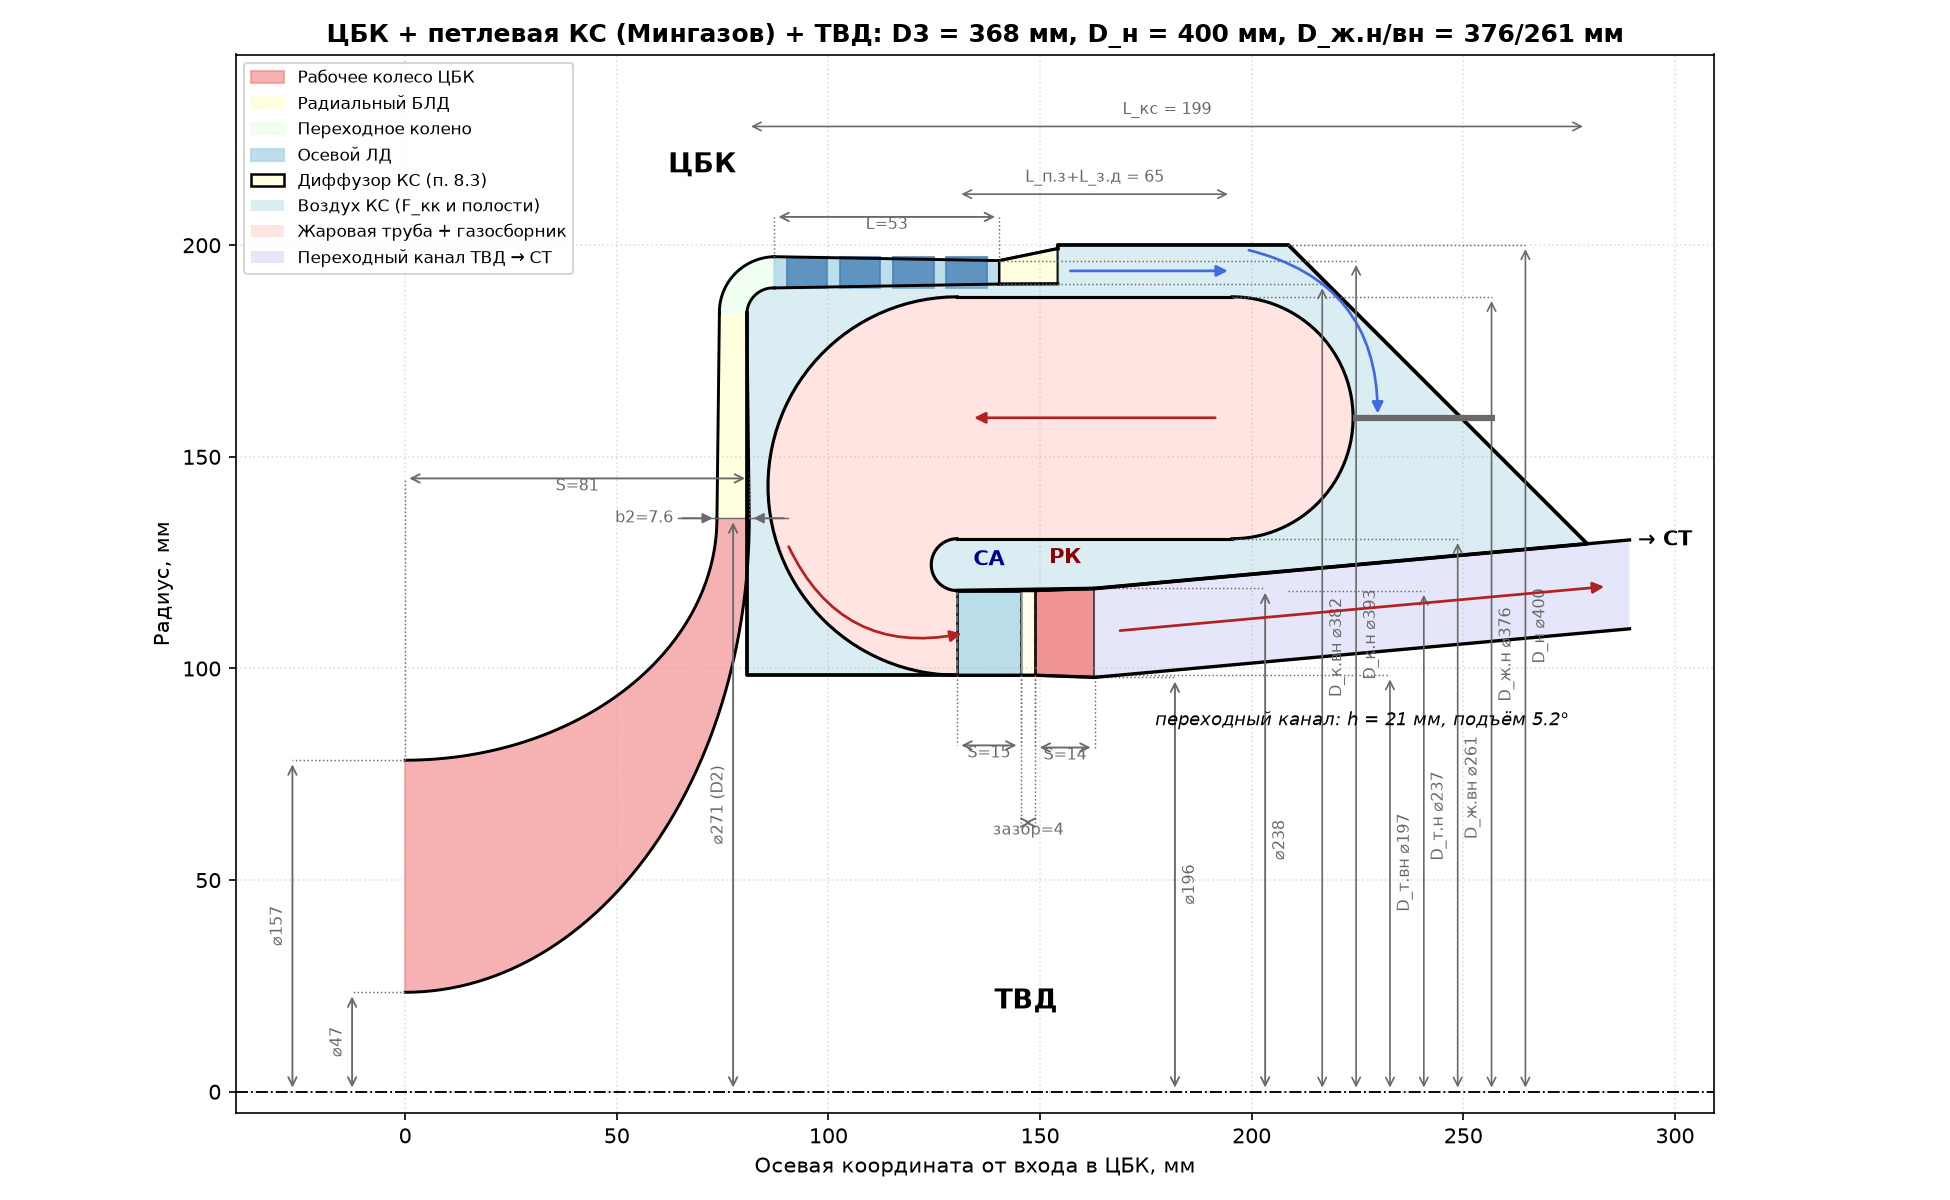
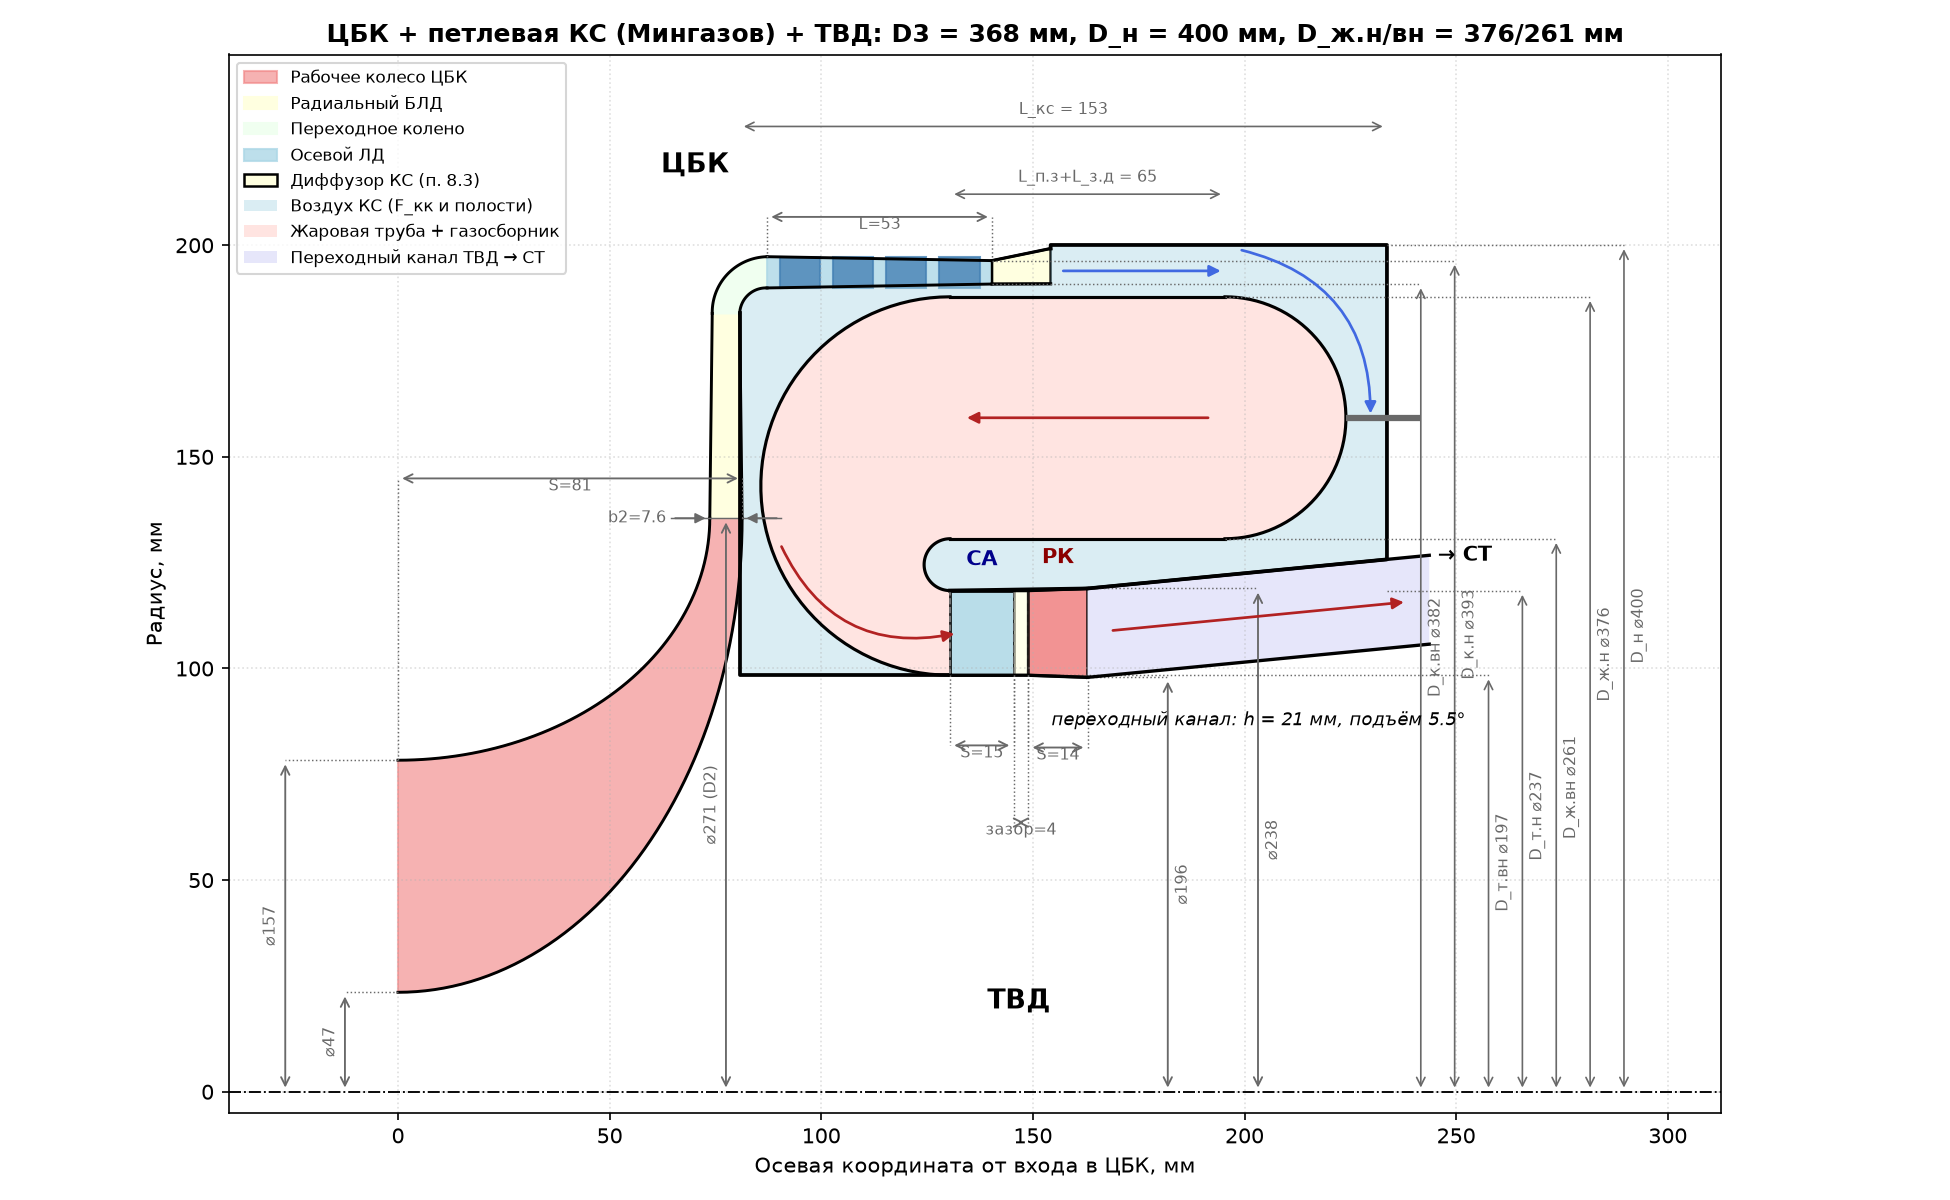
КС: плоская задняя стенка (90°), высота ЖТ из площади; СТ D_ср = 238 мм
Задняя стенка корпуса КС — параметр wall_angle (принято 90°, плоский торец):
переходный канал ТВД → СТ укоротился до 81 мм. Чтобы подъём канала остался
≈ 5,5° (как на чертеже), D_ср СТ 245 → 238 мм, n 29700 → 30600 об/мин
(u_ср = 381 м/с, λ_c1 = 0,878; раскрытие СА СТ 19,7°/11,8°).
Высота ЖТ — по п. 8.4.6 из площади (H_ж = k_опт·H_к); k_опт оставлено 0,7:
при 0,8 КС и ЦБК только увеличиваются (D_н 400 → 478 мм, η_к 0,831 → 0,813).

diff --git a/kamera_sgoraniya/mingazov.py b/kamera_sgoraniya/mingazov.py
@@ -41,8 +41,12 @@ DEFAULTS = dict(
     # Проточная часть петлевой КС (п. 8.10)
     dp_q_ks=30.0,  # ΔP_к/q_к для петлевой КС («необходимо увеличить до 30»)
     dp_q_d=10.0,  # ΔP_д/q_к для петлевой КС
-    k_opt=0.7,  # F_ж.т/F_m = 0,7…0,8
-    H_zh_rel=0.7,  # H_ж/H_к для петлевой КС
+    # F_ж.т/F_m = 0,7…0,8 (п. 8.4.5, 8.10). Высота ЖТ — из площади (п. 8.4.6): H_ж = F_ж.т/(π·D_ср) = k_опт·H_к
+    # (при 0,7 совпадает с H_ж = 0,7·H_к п. 8.10). Принята нижняя граница: радиальные зазоры над и под ЖТ
+    # (≈ 12 мм) задаются выходом ЛД ЦБК и диффузором КС, а не k_опт, поэтому k_опт = 0,8 не утончает воздушные
+    # каналы, а увеличивает ЖТ и всю КС: D_н 400 → 478 мм, D3/D2 1,36 → 1,63, η_к 0,831 → 0,813, c_к 111 → 94 м/с
+    k_opt=0.7,
+    wall_angle=90.0,  # угол задней стенки корпуса к оси, град: 90° — плоский торец (самый короткий канал к СТ; на чертеже books/гг.png стенка скошена)
     A=0.06, theta=0.3,  # п. 8.4.8: коэффициент для кольцевых КС, неравномерность θ = 0,2…0,4
     # Распределение воздуха (п. 8.5.1, для петлевой КС — п. 8.10). Сумма должна быть 1; при рекомендуемых
     # F̄фр = 0,1…0,2, F̄озг = 0,2…0,3, F̄озс = 0,1…0,2, F̄охл = 0,1…0,2 максимум суммы 0,9, поэтому одна доля
@@ -168,7 +172,7 @@ def combustor(G_k, P_k, T_k, T_g, alpha, L_o, sigma_ks, D_k_vn, D_k_n, D_t_vn, D
     D_sr = (D_n + D_t_n) / 2
     F_m = math.pi * D_sr * H_k
     F_zht = p["k_opt"] * F_m  # 8.4.5
-    H_zh = p["H_zh_rel"] * H_k  # для петлевой КС
+    H_zh = F_zht / (math.pi * D_sr)  # 8.4.6 (= k_опт·H_к)
     D_zh_n, D_zh_vn = D_sr + H_zh, D_sr - H_zh  # 8.4.7
     dp_q_zht = p["dp_q_ks"] - p["dp_q_d"]  # 8.4.8
     L_zht = H_zh / (p["A"] * dp_q_zht * math.log(1 / (1 - p["theta"])))  # 8.4.8
@@ -286,10 +290,14 @@ def layout(r, diff):
     x_c = x_nose + Ro
     L_straight = r["L_pz"] + max(r["L_zd"], 0.0)
     x_dome = x_c + L_straight
-    # Задняя стенка корпуса скошена под 45° (как на чертеже books/гг.png) и опирается на наружную стенку
-    # переходного канала ТВД → СТ: линия x + r = C_wall, отстоящая от купола на Δl (п. 8.3.9)
-    x_end = x_dome + (r["H_zh"] / 2 + r["dl"]) * math.sqrt(2)  # стенка на среднем радиусе ЖТ
-    C_wall = x_end + r["D_sr"] / 2
+    # Задняя стенка корпуса стоит под углом wall_angle к оси (на чертеже books/гг.png — скошена) и опирается на
+    # наружную стенку переходного канала ТВД → СТ: линия sinβ·x + cosβ·r = C_wall, касательная к куполу с
+    # зазором Δl (п. 8.3.9), т.е. отстоящая от центра купола на H_ж/2 + Δl
+    beta = math.radians(r["params"]["wall_angle"])
+    wall_s, wall_c = math.sin(beta), math.cos(beta)
+    C_wall = wall_s * x_dome + wall_c * r["D_sr"] / 2 + r["H_zh"] / 2 + r["dl"]
+    x_at = lambda rr: (C_wall - wall_c * rr) / wall_s
+    x_end = x_at(r["D_sr"] / 2)  # стенка на среднем радиусе ЖТ
 
     # Наименьший радиальный зазор между стенкой диффузора ЦБК (колено, ЛД, диффузор КС) и наружной стенкой
     # газосборника / ЖТ
@@ -308,8 +316,8 @@ def layout(r, diff):
 
     return dict(r_k_vn=R(r["D_k_vn"]), r_k_n=R(r["D_k_n"]), r_d1_vn=R(r["D1_vn"]), r_d1_n=R(r["D1_n"]),
                 r_2vn=R(r["D2_vn"]), x_d1=r["L_d"], x_back=x_back, hub=hub, r3=diff["r3"], x_nose=x_nose,
-                rc_o=rc_o, Ro=Ro, rc_i=rc_i, Ri=Ri, x_c=x_c, x_dome=x_dome, x_end=x_end, C_wall=C_wall, x_top=C_wall - R(r["D_n"]),
-                L_under=C_wall - r_t_n - x_c,
+                rc_o=rc_o, Ro=Ro, rc_i=rc_i, Ri=Ri, x_c=x_c, x_dome=x_dome, x_end=x_end, C_wall=C_wall, wall_s=wall_s, wall_c=wall_c,
+                x_top=x_at(R(r["D_n"])), x_wall_t=x_at(r_t_n), L_under=x_at(r_t_n) - x_c,
                 L_turn=math.pi * ((r["D_sr"] - r["D_t_sr"]) / 4), clear=clear,
                 r_vyh_vn=r_t_vn, r_vyh_n=r_t_n, r_zh_vn=r_zh_vn, r_zh_n=r_zh_n, r_ksn=R(r["D_n"]))
 
@@ -395,7 +403,7 @@ def print_report(r):
           f"H_к = (D_н − D_т)/2 = {mm(r['H_k']):.1f} мм, D_ср = {mm(r['D_sr']):.1f} мм")
     print(f"  F_m = π·D_ср·H_к = {cm2(r['F_m']):.0f} см² (по потерям, п. 8.4.1 при ΔP_к/q̄_к = {p['dp_q_ks']} и "
           f"ΔP_к/P_к = {r['dp_P']:.2f}: {cm2(r['F_m_loss']):.0f} см²)")
-    print(f"  F_ж.т = k_опт·F_m = {cm2(r['F_zht']):.0f} см² (k_опт = {p['k_opt']}), H_ж = {p['H_zh_rel']}·H_к = "
+    print(f"  F_ж.т = k_опт·F_m = {cm2(r['F_zht']):.0f} см² (k_опт = {p['k_opt']}), H_ж = F_ж.т/(π·D_ср) = "
           f"{mm(r['H_zh']):.1f} мм, D_ж.н/D_ж.вн = {mm(r['D_zh_n']):.1f}/{mm(r['D_zh_vn']):.1f} мм")
     print(f"  Наружный канал над ЖТ {cm2(r['F_kk']):.0f} см² (F2 = {cm2(r['F2']):.0f} см²), "
           f"внутренняя полость над СА {cm2(r['F_vk']):.0f} см²")
@@ -437,7 +445,7 @@ def print_report(r):
 
     print("\n─── Компоновка (x = 0 — выход ЛД ЦБК) ───")
     print(f"  Задняя стенка радиального диффузора ЦБК x = {mm(g['x_back']):.1f} мм, вход в СА ТВД x = "
-          f"{mm(g['x_c']):.1f} мм, купол x = {mm(g['x_dome']):.1f} мм, скошенная (45°) задняя стенка корпуса: "
+          f"{mm(g['x_c']):.1f} мм, купол x = {mm(g['x_dome']):.1f} мм, задняя стенка корпуса ({p['wall_angle']:.0f}° к оси): "
           f"x = {mm(g['x_top']):.1f} мм у D_н, x = {mm(g['x_end']):.1f} мм на среднем радиусе ЖТ")
     print(f"  Радиусы газосборника: наружный {mm(g['Ro']):.1f} мм (D_ж.н → втулка СА), внутренний {mm(g['Ri']):.1f} мм "
           f"(D_ж.вн → корпус СА); зазор до стенки диффузора ЦБК {mm(g['clear']):.1f} мм")

diff --git a/kamera_sgoraniya/plot.py b/kamera_sgoraniya/plot.py
@@ -21,7 +21,7 @@ def _arc(xc, rc, R, phi0, phi1, n=60):
 
 def draw_combustor(ax, r, x0=0.0, dims=True, duct=None):
     """Меридиональное сечение петлевой (противоточной) КС на оси ax, x0 — выход осевого ЛД ЦБК, мм.
-    duct — переходный канал ТВД → СТ (free_turbine/perehod.py, м, координаты КС): скошенная задняя стенка
+    duct — переходный канал ТВД → СТ (free_turbine/perehod.py, м, координаты КС): задняя стенка
     КС садится на его наружную стенку; без него — на корпус СА ТВД. Возвращает координаты (мм)."""
     g = {k: v * MM for k, v in r["geo"].items() if isinstance(v, float)}
     X = lambda v: x0 + v
@@ -29,13 +29,13 @@ def draw_combustor(ax, r, x0=0.0, dims=True, duct=None):
     hub_x = np.array([X(p[0] * MM) for p in r["geo"]["hub"]])
     hub_r = np.array([p[1] * MM for p in r["geo"]["hub"]])
     h_zh, r_zh_sr = r["H_zh"] * MM, r["D_sr"] / 2 * MM
-    # Скошенная (45°) задняя стенка корпуса x + r = C и «пол» КС: корпус СА/РК ТВД и наружная стенка канала к СТ
+    # Скошенная задняя стенка корпуса и «пол» КС: корпус СА/РК ТВД и наружная стенка канала к СТ
     x_top = X(g["x_top"])
     if duct is not None:
         floor_x = [X(duct["x_b"] * MM), X(duct["x_rk"] * MM), xc]
         floor_r = [duct["r_b"] * MM, duct["r_rk_tip"] * MM, g["r_vyh_n"]]
     else:
-        floor_x = [X(g["C_wall"] - g["r_vyh_n"]), xc]
+        floor_x = [X(g["x_wall_t"]), xc]
         floor_r = [g["r_vyh_n"], g["r_vyh_n"]]
 
     out_x, out_r = _arc(xc, g["rc_o"], g["Ro"], 90, 270)  # наружная стенка газосборника: Джтрн → втулка СА
@@ -66,7 +66,7 @@ def draw_combustor(ax, r, x0=0.0, dims=True, duct=None):
     ax.plot([xc, xd], [g["r_zh_n"]] * 2, **k)
     ax.plot([xc, xd], [g["r_zh_vn"]] * 2, **k)
     ax.plot(dome_x, dome_r, **k)
-    # корпус: наружный, скошенная задняя стенка, внутренний (= корпус ТВД и наружная стенка канала к СТ)
+    # корпус: наружный, задняя стенка, внутренний (= корпус ТВД и наружная стенка канала к СТ)
     ax.plot([x_d1, x_d1, x_top] + floor_x, [g["r_d1_n"], g["r_ksn"], g["r_ksn"]] + floor_r, color="black", lw=1.8)
     # задняя стенка радиального диффузора ЦБК (передняя стенка КС) и опора СА по втулке
     ax.plot([x_back, x_back, xc], [g["r3"], g["r_vyh_vn"], g["r_vyh_vn"]], color="black", lw=1.8)

diff --git a/free_turbine/gasdynamiks.py b/free_turbine/gasdynamiks.py
@@ -16,15 +16,15 @@ HP = 735.499  # 1 л.с. (метрическая), Вт
 # и определяется потребителем ([2], п. 35). При заданной удельной работе L_ст произведение D_ср·l_лопатки
 # определяется расходом (уравнение неразрывности через сопла) и почти не зависит от выбора D_ср/n_ст —
 # поэтому одним D_ср высоту лопатки в разы не уменьшить без чрезмерного роста диаметра. D_ср СТ принят
-# умеренно больше D_ср ТВД (turbine/gasdynamiks.py: D_ср ≈ 217 мм, l ≈ 21 мм) — 245 мм: так переходный канал
+# умеренно больше D_ср ТВД (turbine/gasdynamiks.py: D_ср ≈ 217 мм, l ≈ 21 мм) — 238 мм: так переходный канал
 # ТВД → СТ постоянной высоты (free_turbine/perehod.py, по чертежу books/гг.png) поднимается к СТ под углом
-# ≈ 5°, как на чертеже (при 260 мм было бы ≈ 9°). Частота вращения поднята так, чтобы окружная скорость
+# ≈ 5,5°, как на чертеже (при 260 мм было бы ≈ 10…12°). Частота вращения поднята так, чтобы окружная скорость
 # u_ср ≈ 381 м/с и x1 = u_ср/c_ад остались прежними (рекомендуемый диапазон 0,45…0,55, [1]).
 # Высота лопатки снижена подбором угла выхода из сопел alpha_1 (21° вместо типичных 15…18°) — l ≈ 41 мм.
 # Запас прочности рабочей лопатки при таком D_ср/n_ст не проверялся приоритетно — материал/охлаждение и
 # прочностной расчёт делаются отдельно.
-n_ct = 29700  # Частота вращения ротора СТ, об/мин
-D_sr = 0.245  # Средний диаметр СТ, м
+n_ct = 30600  # Частота вращения ротора СТ, об/мин
+D_sr = 0.238  # Средний диаметр СТ, м
 # Осевая ширина СА: (h/S)_са = 1,15 ([2], п. 42: 1…3) — СА удлинён, т.к. он раскрывается от высоты
 # переходного канала (≈ 21 мм) до l_c, и углы раскрытия должны уложиться в [2], п. 43 (см. perehod.py)
 hS_sa = 1.15

diff --git a/layout/meridional.py b/layout/meridional.py
@@ -247,7 +247,8 @@ def main():
 
     axial_gap_ct = 0.25 * ct["S_rk"]
     (x_in_s, hub_in_s, tip_in_s, x_out_s, hub_out_s, tip_out_s) = draw_axial_turbine(
-        ax, x_ct, ct, axial_gap_ct, "СТ (свободная турбина)", sa_in=(duct["r_in_hub"] * MM, duct["r_in_tip"] * MM))
+        ax, x_ct, ct, axial_gap_ct, "СТ (свободная турбина)", sa_in=(duct["r_in_hub"] * MM, duct["r_in_tip"] * MM),
+        label_y=ks["D_n"] * MM / 2 + 15)  # над корпусом КС, чтобы не наезжать на форсунку
 
     x_total = x_out_s
     # Запас под размерные линии диаметров на входе в ЦБК (слева) и на выходе из СТ (справа) —
